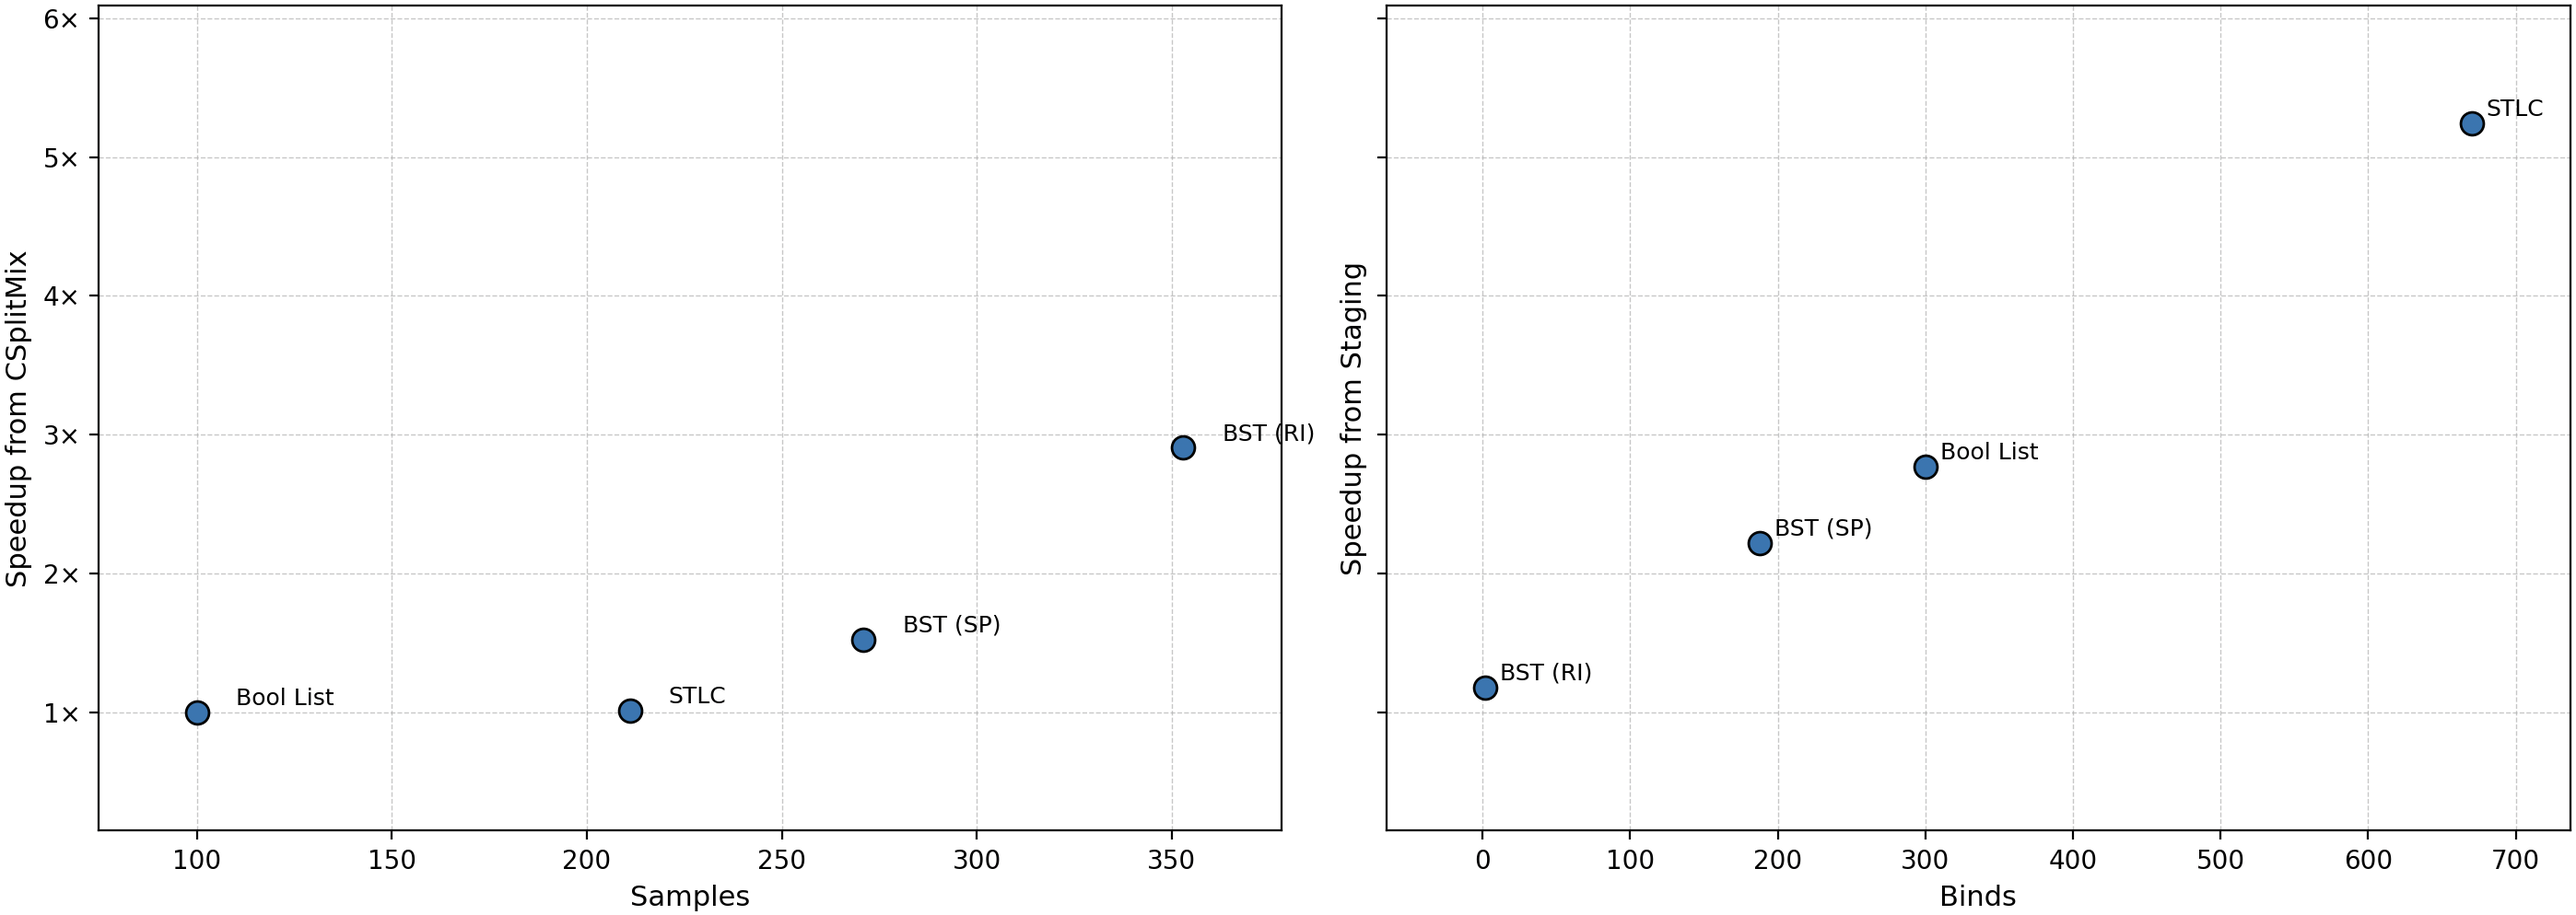
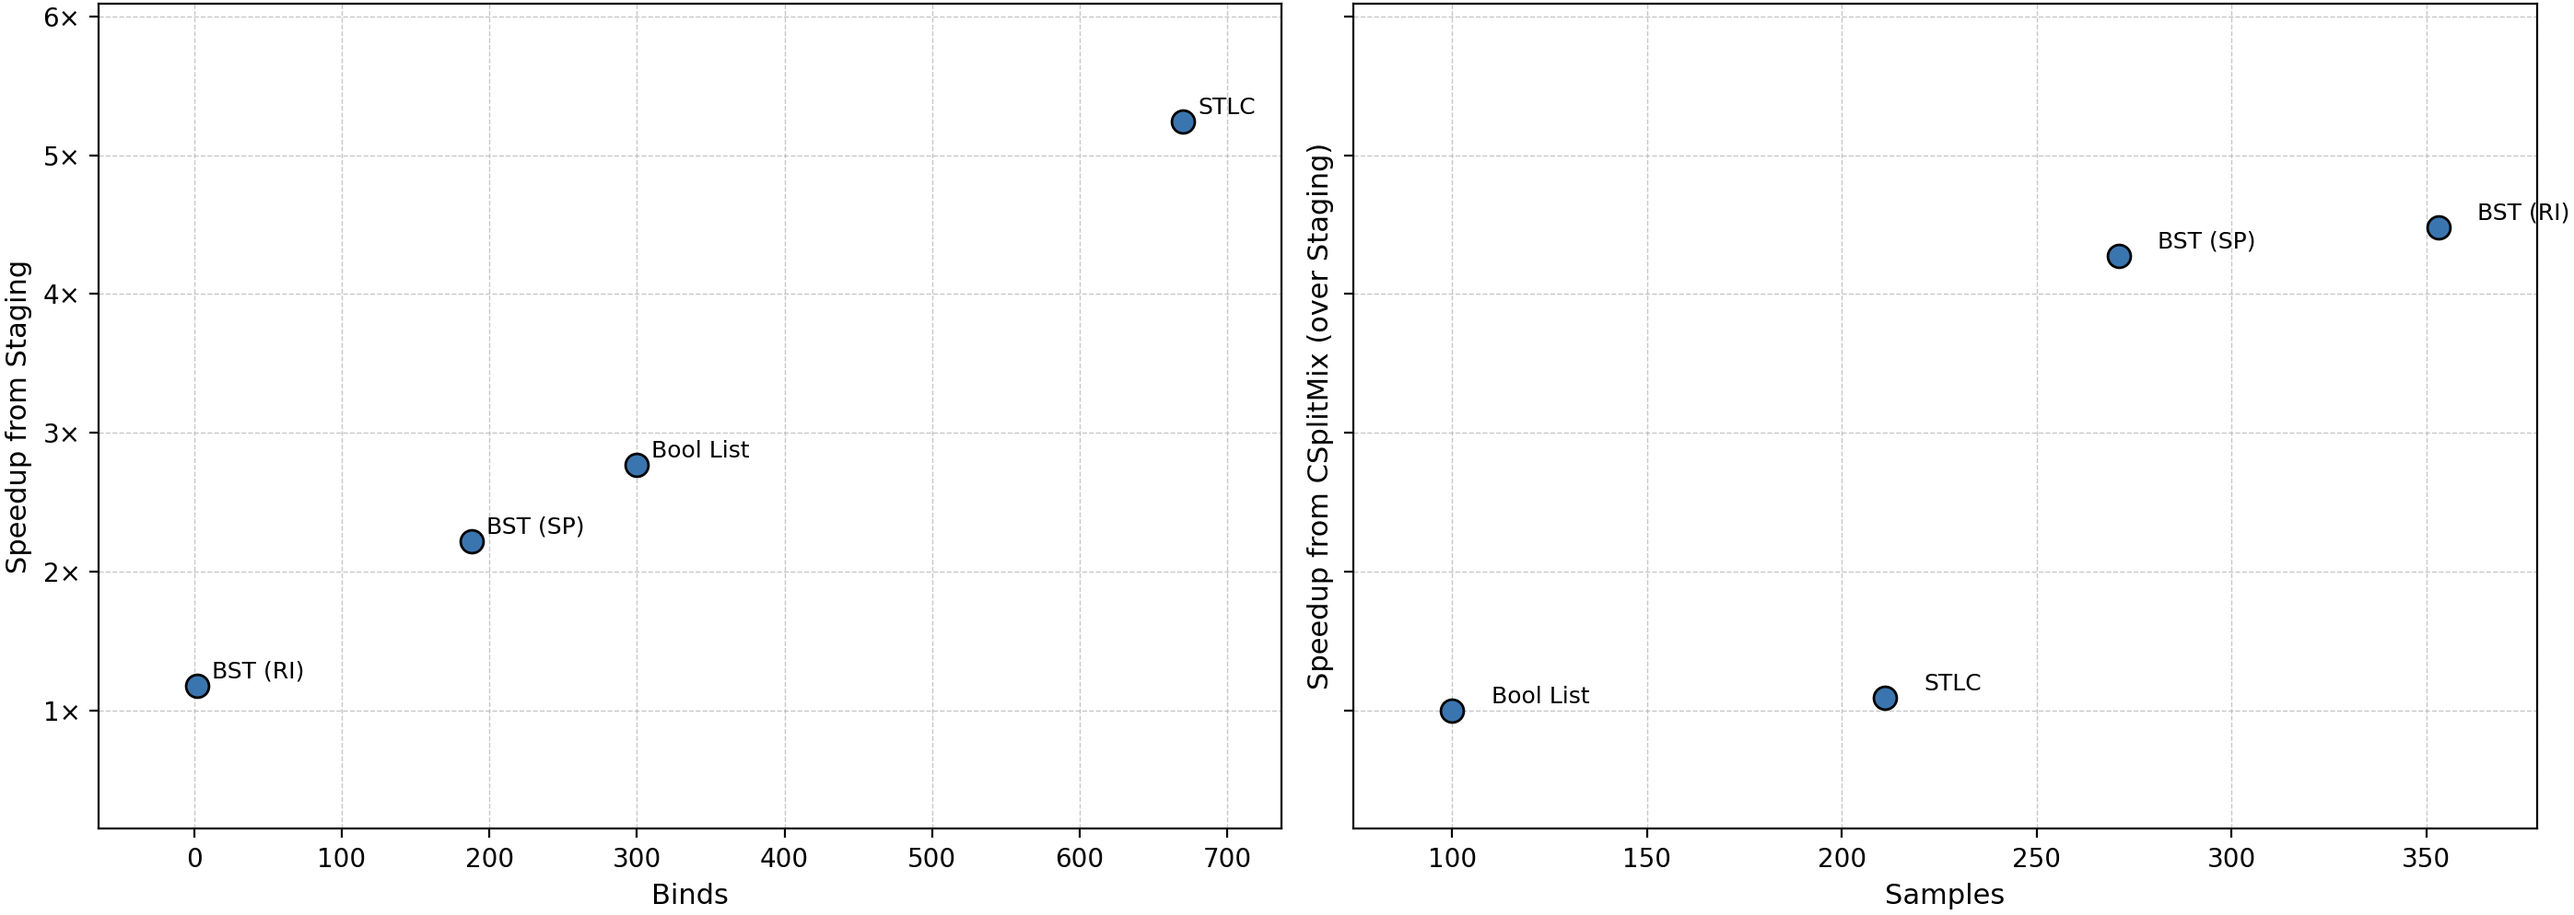
4.1 new

diff --git a/paper/paper.tex b/paper/paper.tex
@@ -1485,14 +1485,12 @@ generators that sample more often benefit more from improved random sampling, wh
 heavily on generator library combinators gain more from staging.
 To test this idea, we look for measurable proxies that approximate a generator's reliance on its generator and randomness libraries.
 For the former, we use the number of calls to \texttt{bind}---the central monadic generator function, extensively used both directly and within other combinators.
-For the latter, we count the number of times a generator invokes the sampling function \texttt{next\_int64}. We select four strategies from \secref{subsubsection:ocaml} with disparate speedups: insertion-based BSTs, single-pass BSTs, 
+For the latter, we count the number of times a generator invokes the SplitMix sampling routine \texttt{next\_int64}. We select four strategies from \secref{subsubsection:ocaml} with disparate speedups: insertion-based BSTs, single-pass BSTs, 
 boolean lists, and well-typed STLC terms.
 
 To determine how often \texttt{bind} is invoked, we generate 10,000 values using a fixed generation size of 100, and 
-record the average number of \texttt{bind} calls. Results in \figref{fig:binds} show a clear linear 
-correlation between the number of \texttt{bind} calls and the speedup 
-achieved by staging, supporting the idea that generators that make heavier use of 
-generator library functions benefit more.
+record the average number of \texttt{bind} calls. To determine the number of random samples, we repeat the same test, but use Intel ProcessorTrace \cn{} to capture a 4ms snapshot of processor activity.
+We then count the number of invocations of \texttt{next\_int64} and average this over the number of complete generations in the trace. 
 
 \begin{figure}[h]
   \includegraphics[scale=0.28]{bind.png}
@@ -1500,19 +1498,18 @@ generator library functions benefit more.
   \label{fig:binds}
 \end{figure}
 
-To determine the number of random samples, we repeat the same test, but use Intel ProcessorTrace \cn{} to capture a 4ms trace processor activity.
-We then count the number of invocations of \texttt{next\_int64}---the actual SplitMix sampling routine---and average this over the number of complete generations in the trace. As expected,
-the BST strategies, which achieve large speedups from \csplitmix, invoke the sampling function more: 353 times for the insertion-based strategy, and 271 for the single-pass strategy. 
-STLC, which sees moderate improvements from \csplitmix, invokes \texttt{next\_int64} 211 times, and the boolean list strategy, which sees no improvement from \csplitmix, invokes it only 100 times\footnote{
-We did not measure generator performance for \emph{un}staged generators with \csplitmix, so there is no equivalent of Figure~\ref{fig:binds} for speedup versus sampling.
-}.
+Results are summarized in \figref{fig:binds}. The left plot shows a clear linear 
+relationship between performance benefit from staging and number of calls 
+to \texttt{bind}. The right plot shows a more bimodal distribution, but still validates our intuition that
+generators that sample more also stand to gain more from optimized \rand libraries.
+These results suggest that staging and \rand optimizations address distinct and complimentary roles in generator performance: the former aids combinator-heavy generators, while the latter benefits sampling-heavy ones. To support diverse workloads, generator libraries should combine both techniques.
 
-These results show that staging and \rand choice play distinct and
-complementary roles in generator performance. Sampling-heavy generators see
-greater improvements from faster randomness libraries, while combinator-heavy
-ones benefit more from staging. Since both factors influence performance 
-significantly, generator libraries should use both in order to handle diverse
-workloads.
+% We conclude that staging and \rand choice play distinct and
+% complementary roles in generator performance. Sampling-heavy generators see
+% greater improvements from faster randomness libraries, while combinator-heavy
+% ones benefit more from staging. Since both factors influence performance 
+% significantly, generator libraries should use both in order to handle diverse
+% workloads.
 
 \subsubsection{\scalaname}
 In \scalaname, we implement a subset of the \camlname
